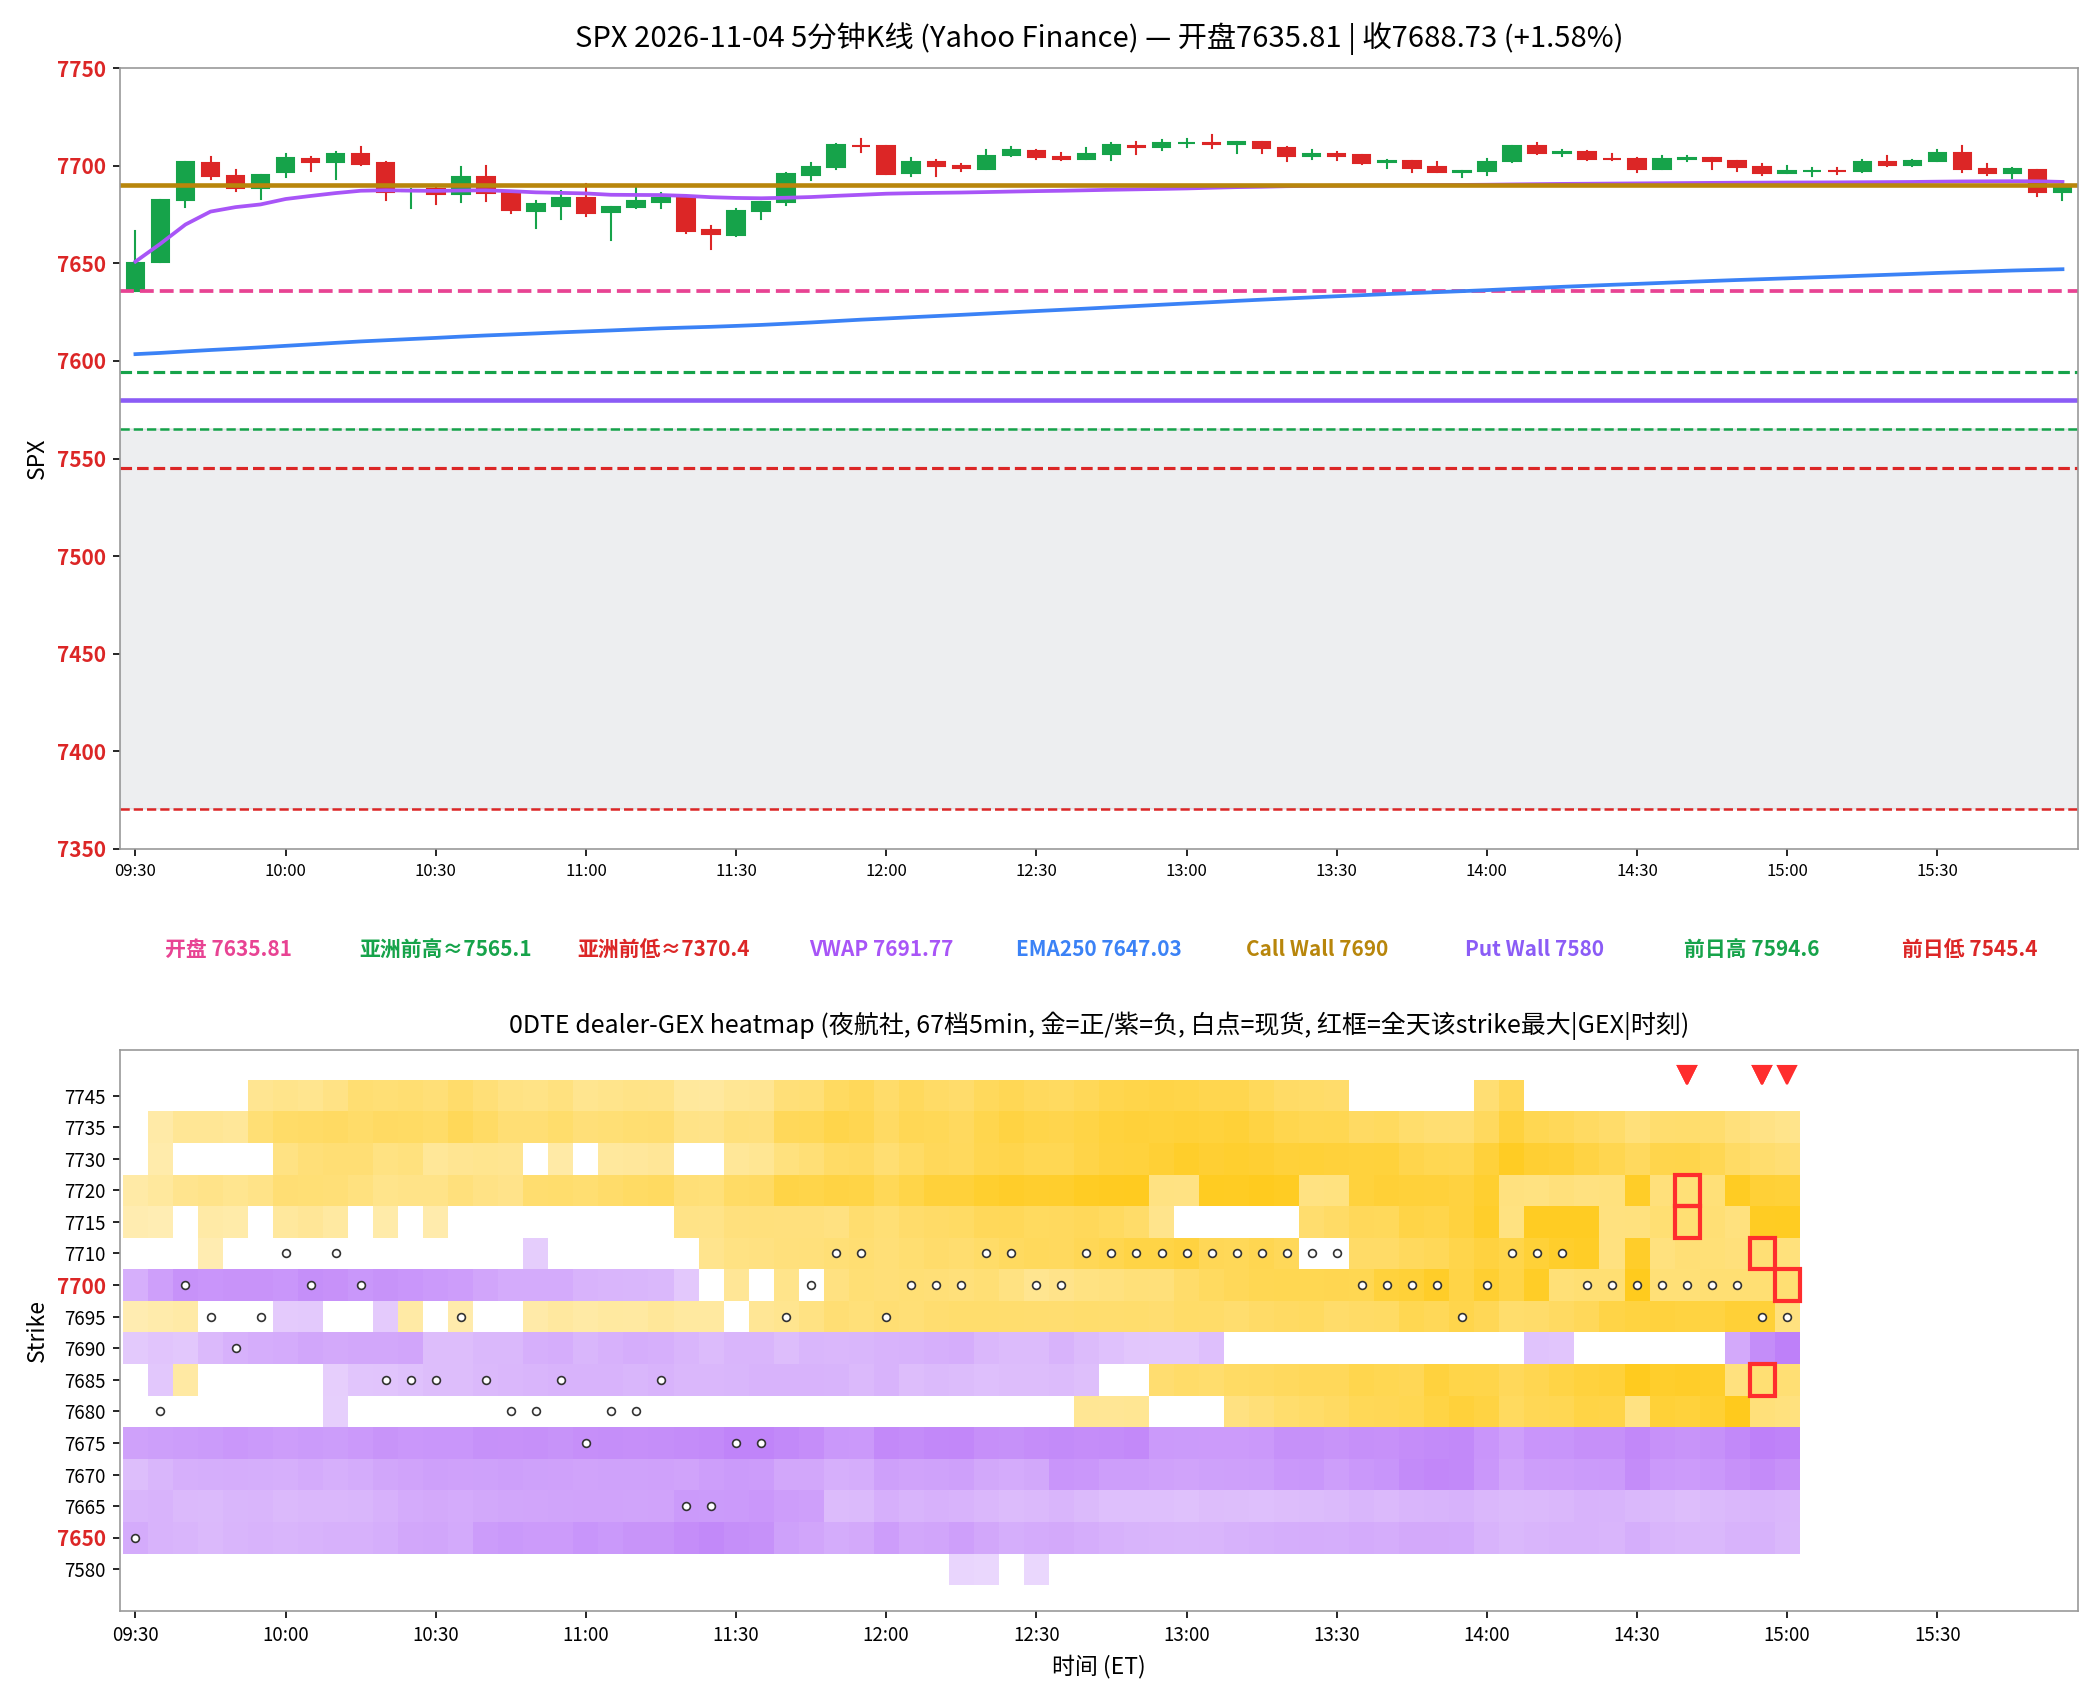
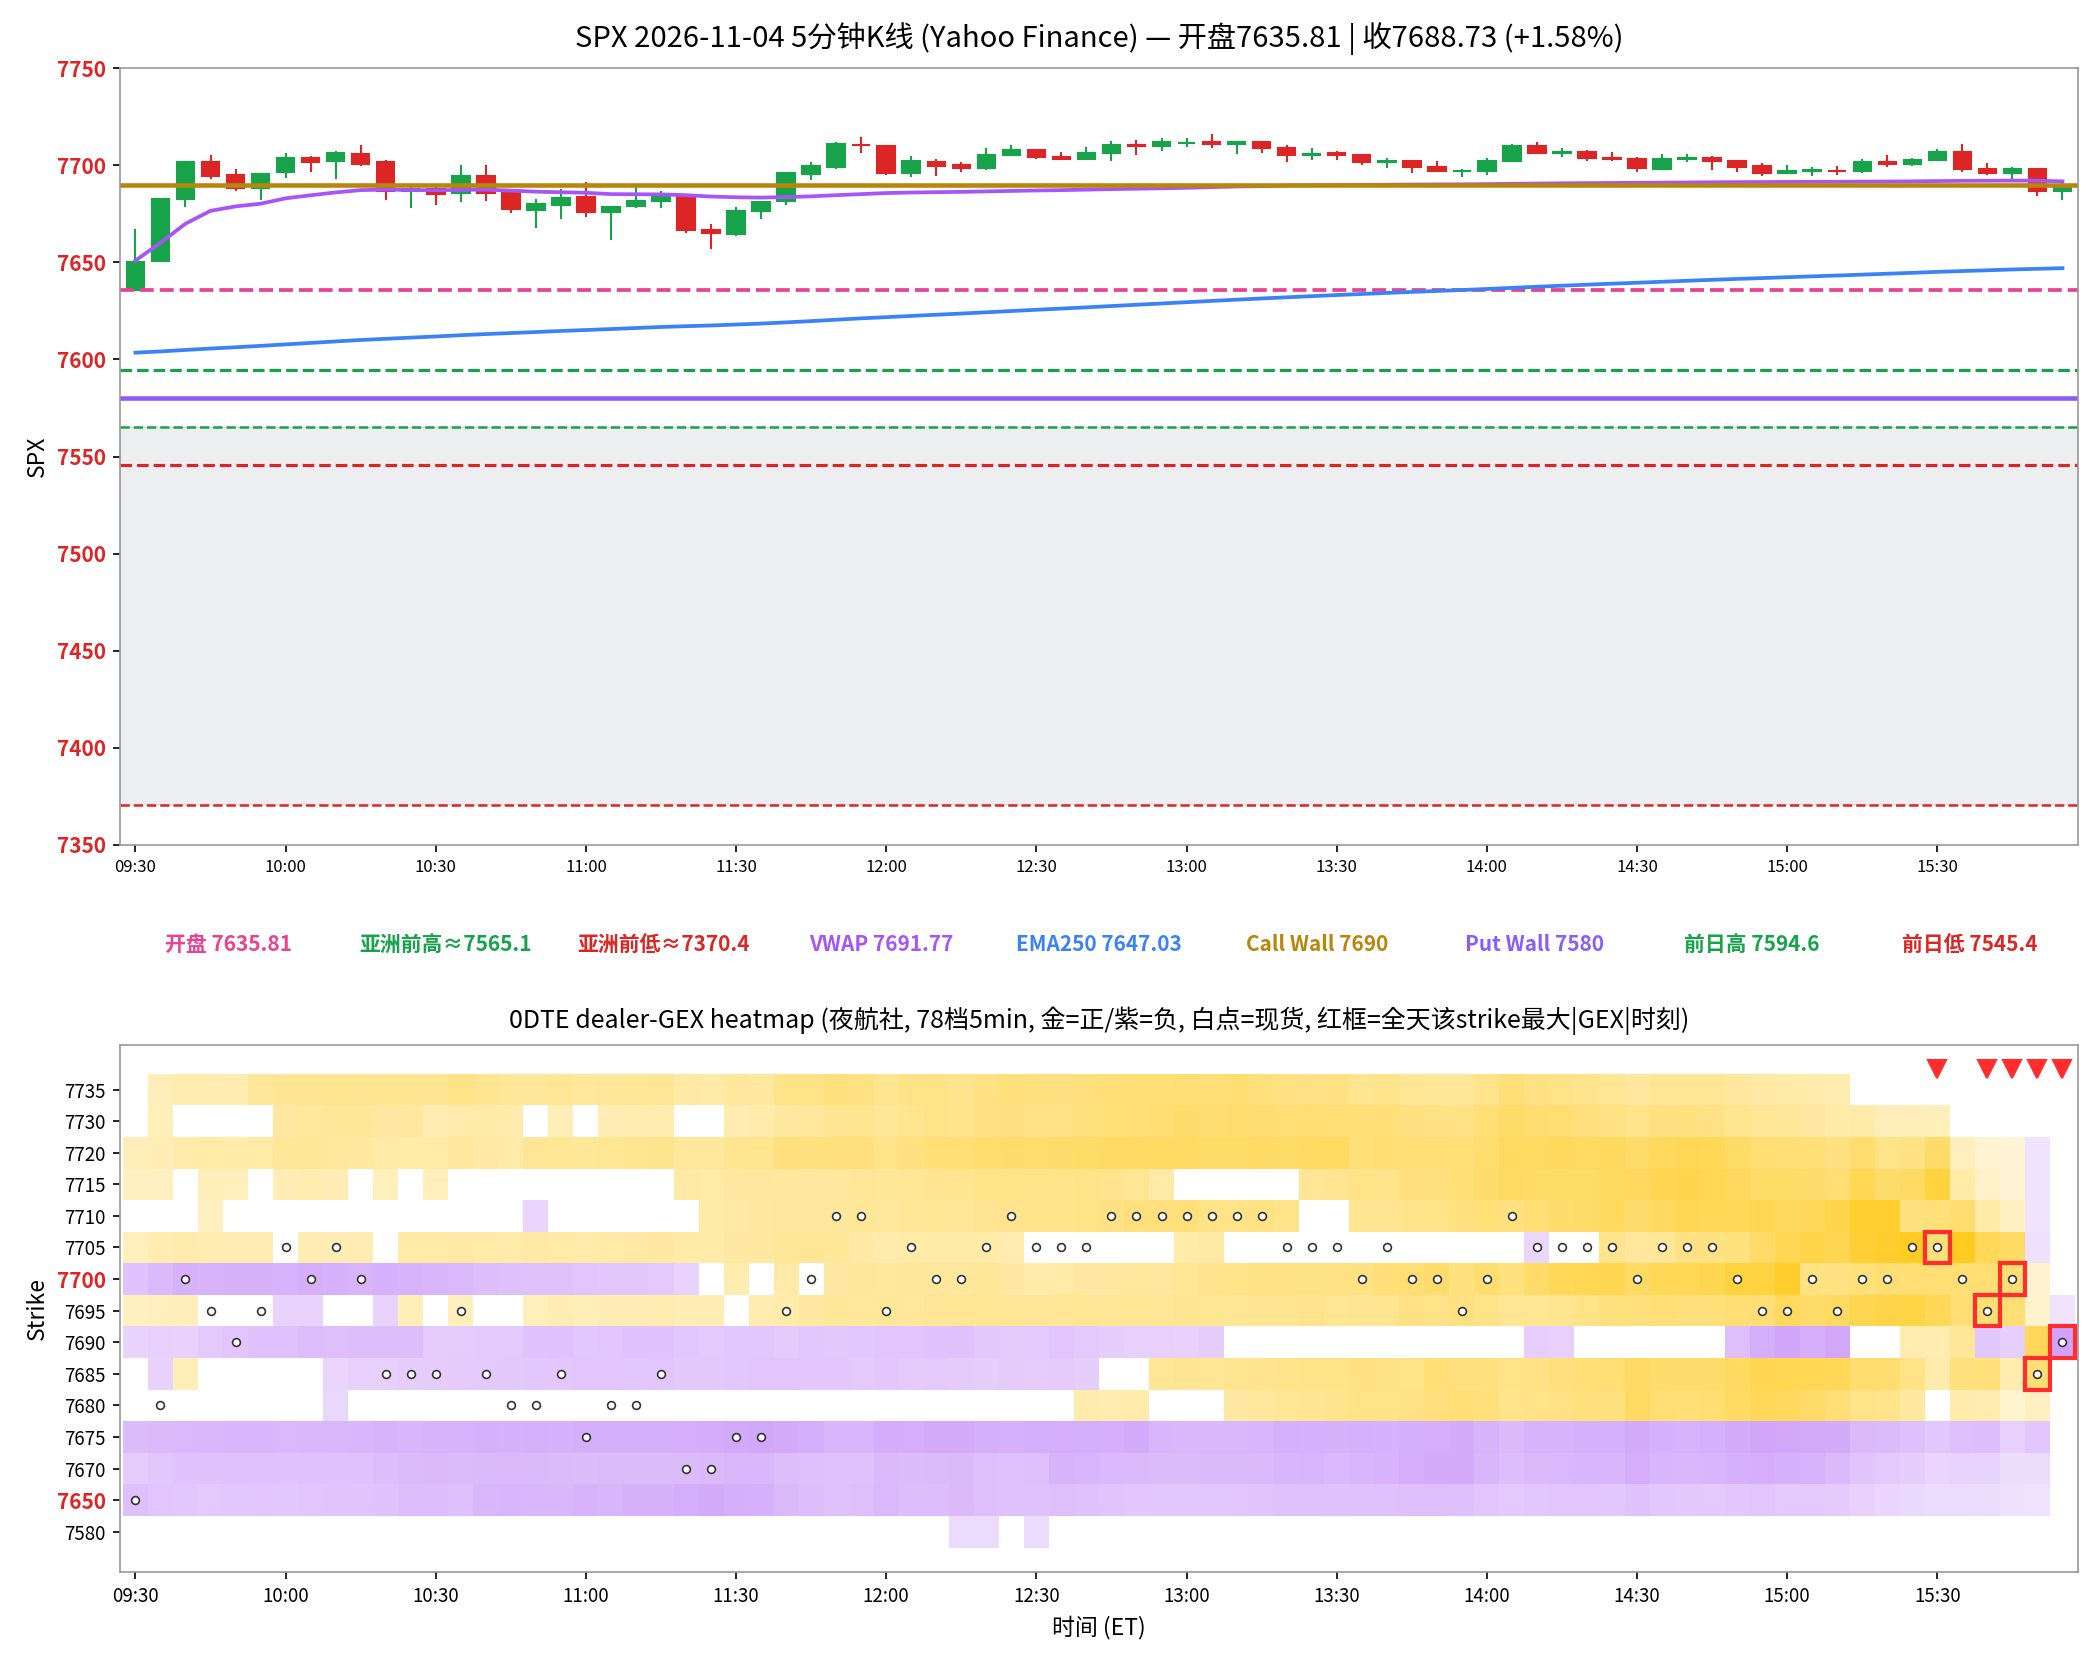
spx heatmap backfill 2026-11-04 (67->78 frames)

diff --git a/spx-intraday/all.html b/spx-intraday/all.html
@@ -488,43 +488,43 @@
 </section>
 <section aria-label="K线与heatmap">
 <div class="section-head"><h2>5 分钟 K 线 × 0DTE heatmap</h2><div class="source">
-<p>0DTE，夜航社 67 档 5 分钟快照；白点为每档现货位置</p>
+<p>0DTE，夜航社 78 档 5 分钟快照；白点为每档现货位置</p>
 </div></div>
 <figure class="chart-shell"><img src="charts/spx_2026-11-04.png" alt="SPX 2026-11-04 5分钟K线与0DTE dealer-GEX heatmap" loading="lazy"></figure>
 <div class="gex-intro">
-<h3>heatmap解读（0DTE，夜航社 67 档 5 分钟快照）</h3>
+<h3>heatmap解读（0DTE，夜航社 78 档 5 分钟快照）</h3>
 <ul>
-<li>金色带在 7700(+5319M) / 7685(+3233M) / 7705(+3150M) / 7710(+2767M)</li>
-<li>紫色带在 7690(-1604M) / 7675(-1507M) / 7670(-1086M) / 7660(-415M)</li>
+<li>尾盘无显著金色带</li>
+<li>紫色带在 7690(-43036M)</li>
 <li>白点轨迹: 开 7635.81→高 7715.57→低 7635.81→收 7688.73（1.58%）；收盘在 call wall 7690 下方，put wall 7580 上方</li>
-<li>尾盘节点变化: 前三节点迁移 [7700, 7715, 7720]→[7685, 7700, 7705]；7700 增厚 +178%（1917M→5319M）；7685 增厚 +130%（1404M→3233M）</li>
+<li>尾盘节点变化: 前三节点迁移 [7685, 7700, 7710]→[7690, 7695]；7690 减弱 -3447%（-1213M→-43036M）；7695 减弱 -100%（1759M→-0M）</li>
 </ul>
 </div>
 <div class="top5-wrap"><h3>全天最大节点 TOP5</h3><div class="top5">
+<article class="node purple">
+<span class="node-rank">① · 15:55</span>
+<strong>7690</strong>
+<span class="metric">-43036.1M</span>
+</article>
 <article class="node">
-<span class="node-rank">① · 15:00</span>
+<span class="node-rank">② · 15:45</span>
 <strong>7700</strong>
-<span class="metric">+5319.4M</span>
+<span class="metric">+22357.7M</span>
 </article>
 <article class="node">
-<span class="node-rank">② · 14:40</span>
-<strong>7715</strong>
-<span class="metric">+3483.7M</span>
+<span class="node-rank">③ · 15:40</span>
+<strong>7695</strong>
+<span class="metric">+10361.3M</span>
 </article>
 <article class="node">
-<span class="node-rank">③ · 14:55</span>
+<span class="node-rank">④ · 15:50</span>
 <strong>7685</strong>
-<span class="metric">+3320.3M</span>
+<span class="metric">+9138.2M</span>
 </article>
 <article class="node">
-<span class="node-rank">④ · 14:55</span>
-<strong>7710</strong>
-<span class="metric">+3158.8M</span>
-</article>
-<article class="node">
-<span class="node-rank">⑤ · 14:40</span>
-<strong>7720</strong>
-<span class="metric">+3041.8M</span>
+<span class="node-rank">⑤ · 15:30</span>
+<strong>7705</strong>
+<span class="metric">+8018.7M</span>
 </article>
 </div></div>
 <div class="method"><p>亮度口径：p99 截断；红框 = 全天该 strike 最大 |GEX| 时刻。</p></div>
@@ -573,7 +573,7 @@
 <div class="summary-list">
 <article class="summary-item"><p>①开盘 7635.81，相对 call wall 7690 位置：墙下；put wall 7580。</p></article>
 <article class="summary-item"><p>②白点轨迹: 开 7635.81→高 7715.57→低 7635.81→收 7688.73（1.58%）；收盘在 call wall 7690 下方，put wall 7580 上方</p></article>
-<article class="summary-item"><p>③尾盘节点变化: 前三节点迁移 [7700, 7715, 7720]→[7685, 7700, 7705]；7700 增厚 +178%（1917M→5319M）；7685 增厚 +130%（1404M→3233M）</p></article>
+<article class="summary-item"><p>③尾盘节点变化: 前三节点迁移 [7685, 7700, 7710]→[7690, 7695]；7690 减弱 -3447%（-1213M→-43036M）；7695 减弱 -100%（1759M→-0M）</p></article>
 <article class="summary-item"><p>④flow 印证：中性（bull 5.3M / bear 5.82M）；最大簇 7650C 1.99M（ITM，spot≈7679.8；ask 0.77M / bid 1.21M / mid 0.0M）。</p></article>
 <article class="summary-item"><p>⑤收盘 7688.73（1.58%），VWAP 7691.77，EMA250 7647.03；事件日：事件日</p></article>
 </div></section>

diff --git a/spx-intraday/2026-11-04.html b/spx-intraday/2026-11-04.html
@@ -70,43 +70,43 @@
 </section>
 <section aria-label="K线与heatmap">
 <div class="section-head"><h2>5 分钟 K 线 × 0DTE heatmap</h2><div class="source">
-<p>0DTE，夜航社 67 档 5 分钟快照；白点为每档现货位置</p>
+<p>0DTE，夜航社 78 档 5 分钟快照；白点为每档现货位置</p>
 </div></div>
 <figure class="chart-shell"><img src="charts/spx_2026-11-04.png" alt="SPX 2026-11-04 5分钟K线与0DTE dealer-GEX heatmap" loading="lazy"></figure>
 <div class="gex-intro">
-<h3>heatmap解读（0DTE，夜航社 67 档 5 分钟快照）</h3>
+<h3>heatmap解读（0DTE，夜航社 78 档 5 分钟快照）</h3>
 <ul>
-<li>金色带在 7700(+5319M) / 7685(+3233M) / 7705(+3150M) / 7710(+2767M)</li>
-<li>紫色带在 7690(-1604M) / 7675(-1507M) / 7670(-1086M) / 7660(-415M)</li>
+<li>尾盘无显著金色带</li>
+<li>紫色带在 7690(-43036M)</li>
 <li>白点轨迹: 开 7635.81→高 7715.57→低 7635.81→收 7688.73（1.58%）；收盘在 call wall 7690 下方，put wall 7580 上方</li>
-<li>尾盘节点变化: 前三节点迁移 [7700, 7715, 7720]→[7685, 7700, 7705]；7700 增厚 +178%（1917M→5319M）；7685 增厚 +130%（1404M→3233M）</li>
+<li>尾盘节点变化: 前三节点迁移 [7685, 7700, 7710]→[7690, 7695]；7690 减弱 -3447%（-1213M→-43036M）；7695 减弱 -100%（1759M→-0M）</li>
 </ul>
 </div>
 <div class="top5-wrap"><h3>全天最大节点 TOP5</h3><div class="top5">
+<article class="node purple">
+<span class="node-rank">① · 15:55</span>
+<strong>7690</strong>
+<span class="metric">-43036.1M</span>
+</article>
 <article class="node">
-<span class="node-rank">① · 15:00</span>
+<span class="node-rank">② · 15:45</span>
 <strong>7700</strong>
-<span class="metric">+5319.4M</span>
+<span class="metric">+22357.7M</span>
 </article>
 <article class="node">
-<span class="node-rank">② · 14:40</span>
-<strong>7715</strong>
-<span class="metric">+3483.7M</span>
+<span class="node-rank">③ · 15:40</span>
+<strong>7695</strong>
+<span class="metric">+10361.3M</span>
 </article>
 <article class="node">
-<span class="node-rank">③ · 14:55</span>
+<span class="node-rank">④ · 15:50</span>
 <strong>7685</strong>
-<span class="metric">+3320.3M</span>
+<span class="metric">+9138.2M</span>
 </article>
 <article class="node">
-<span class="node-rank">④ · 14:55</span>
-<strong>7710</strong>
-<span class="metric">+3158.8M</span>
-</article>
-<article class="node">
-<span class="node-rank">⑤ · 14:40</span>
-<strong>7720</strong>
-<span class="metric">+3041.8M</span>
+<span class="node-rank">⑤ · 15:30</span>
+<strong>7705</strong>
+<span class="metric">+8018.7M</span>
 </article>
 </div></div>
 <div class="method"><p>亮度口径：p99 截断；红框 = 全天该 strike 最大 |GEX| 时刻。</p></div>
@@ -155,7 +155,7 @@
 <div class="summary-list">
 <article class="summary-item"><p>①开盘 7635.81，相对 call wall 7690 位置：墙下；put wall 7580。</p></article>
 <article class="summary-item"><p>②白点轨迹: 开 7635.81→高 7715.57→低 7635.81→收 7688.73（1.58%）；收盘在 call wall 7690 下方，put wall 7580 上方</p></article>
-<article class="summary-item"><p>③尾盘节点变化: 前三节点迁移 [7700, 7715, 7720]→[7685, 7700, 7705]；7700 增厚 +178%（1917M→5319M）；7685 增厚 +130%（1404M→3233M）</p></article>
+<article class="summary-item"><p>③尾盘节点变化: 前三节点迁移 [7685, 7700, 7710]→[7690, 7695]；7690 减弱 -3447%（-1213M→-43036M）；7695 减弱 -100%（1759M→-0M）</p></article>
 <article class="summary-item"><p>④flow 印证：中性（bull 5.3M / bear 5.82M）；最大簇 7650C 1.99M（ITM，spot≈7679.8；ask 0.77M / bid 1.21M / mid 0.0M）。</p></article>
 <article class="summary-item"><p>⑤收盘 7688.73（1.58%），VWAP 7691.77，EMA250 7647.03；事件日：事件日</p></article>
 </div></section>
